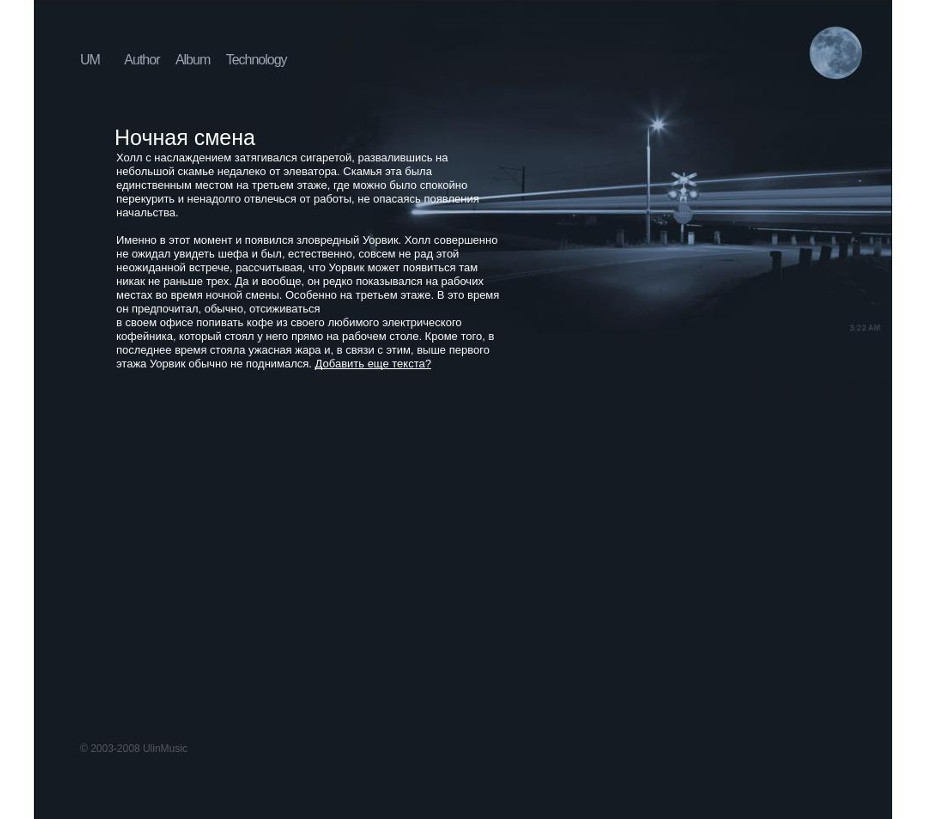
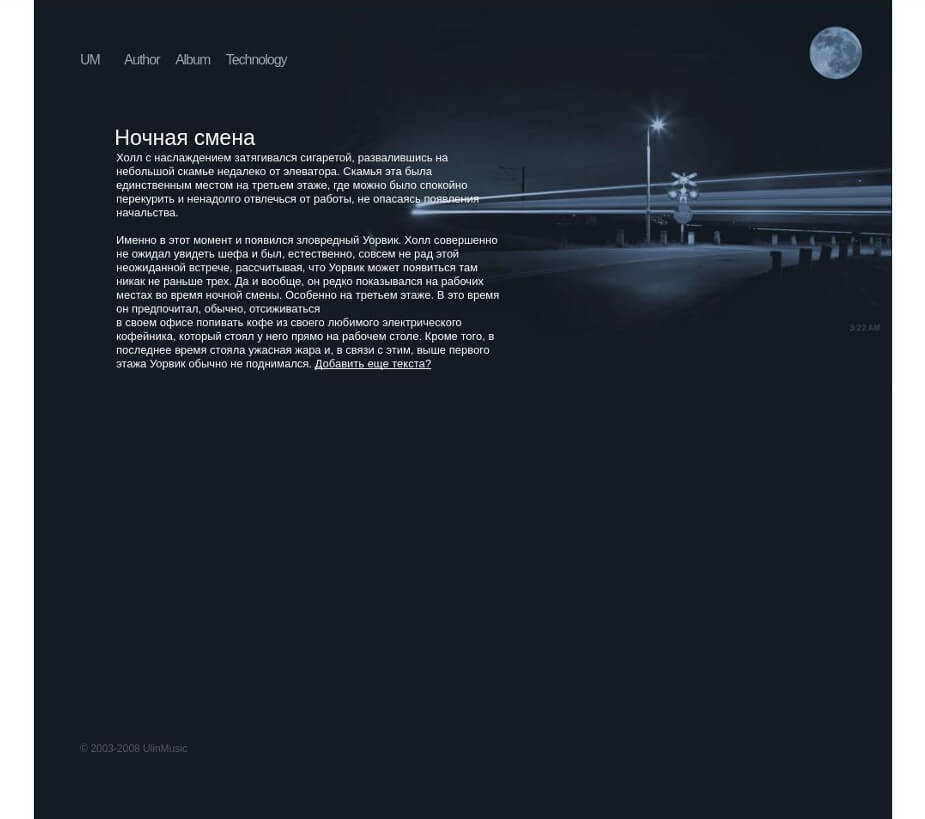
Закомментировал отладку, сжал изображения, убрал не использующиеся изображения, профиксил и доработал прокрутку после обновление страницы

diff --git a/script.js b/script.js
@@ -74,13 +74,15 @@ $('main > nav').click(function() {
 /* Конец этого блока */
 
 /* Клавиатура */
-window.onkeydown = function(e) { // Пришлось использовать встроенное события так как в jQuery есть заглушка для клавиш PageUp, PageDown и End.
-        console.log('Вы ввели символ с клавиатуры. Его код равен ' + e.keyCode);
-        if (e.keyCode == 33 || e.keyCode == 34 || e.keyCode == 35) { // PageUp - 33, PageDown - 34 и End - 35.
-            pageRead(); // Если поставить на PageDown и End, стандартное поведение как при прокрутке, то придется их то придется их временно блокировать тоже, а самое главное так как разрез получается большой то страница будет далеко прыгать так что для них лучше сделать отдельное поведения для элементов в будущей версии этого сайта.
-        }
+window.onkeydown = function(e){ // Пришлось использовать встроенное события так как в jQuery есть заглушка для клавиш PageUp, PageDown и End.
+    // console.log('Вы ввели символ с клавиатуры. Его код равен ' + e.keyCode);
+    if(e.keyCode == 33|| e.keyCode == 34 || e.keyCode == 35){ // PageUp - 33, PageDown - 34 и End - 35.
+        pageRead(); // Если поставить на PageDown и End, стандартное поведение как при прокрутке, то придется их то придется их временно блокировать тоже, а самое главное так как разрез получается большой то страница будет далеко прыгать так что для них лучше сделать отдельное поведения для элементов в будущей версии этого сайта.
     }
-    /* Конец этого блока */
+
+    if(e.keyCode == 123) scrollTopF(); // (4)
+}
+/* Конец этого блока */
 
 /* Конец блока навигации */
 
@@ -368,14 +370,23 @@ $("p.vh").each(function(index, elem) {
 /* Конец этого блока */
 
 /* При обновлении страницы перемотать в начало */
-$(document).ready(function() {
-    setTimeout(function() {
-        //window.scrollTo(0, 1264);
+function scrollTopF() { // (4)
 
+    $(window).scrollTop(0);
+
+    window.onscroll = function() {
         setTimeout(function() {
+            $(window).scrollTop(0);            
+            /// console.log("window.onscroll");
             window.onscroll = scrollEffects; // Запуск происходит специально отдельно, для того, чтобы элементы случайно не раскрывались при автоматическом скролле случайно раскрытых элементов.
-        }, 200);
+        }, 50);
+    }
 
-    }, 100);
+}
+
+
+
+$(document).ready(function() {
+    scrollTopF(); // (4)
 });
 /* Конец этого блока */
